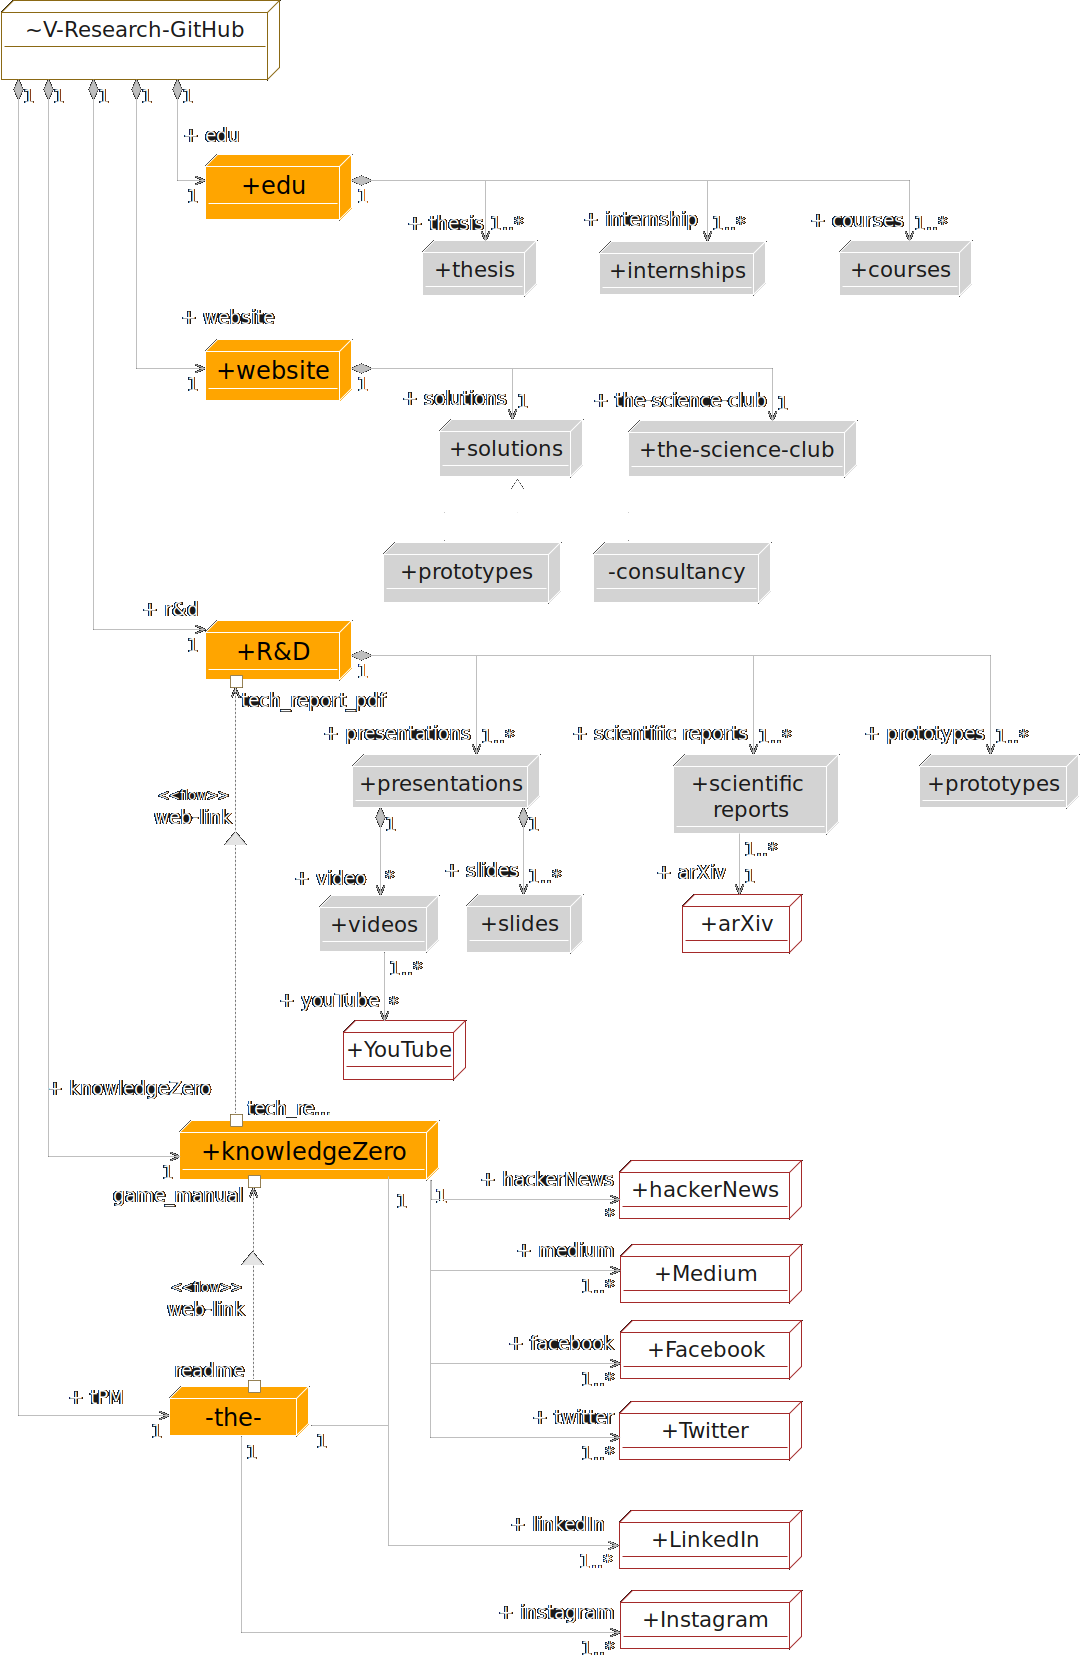
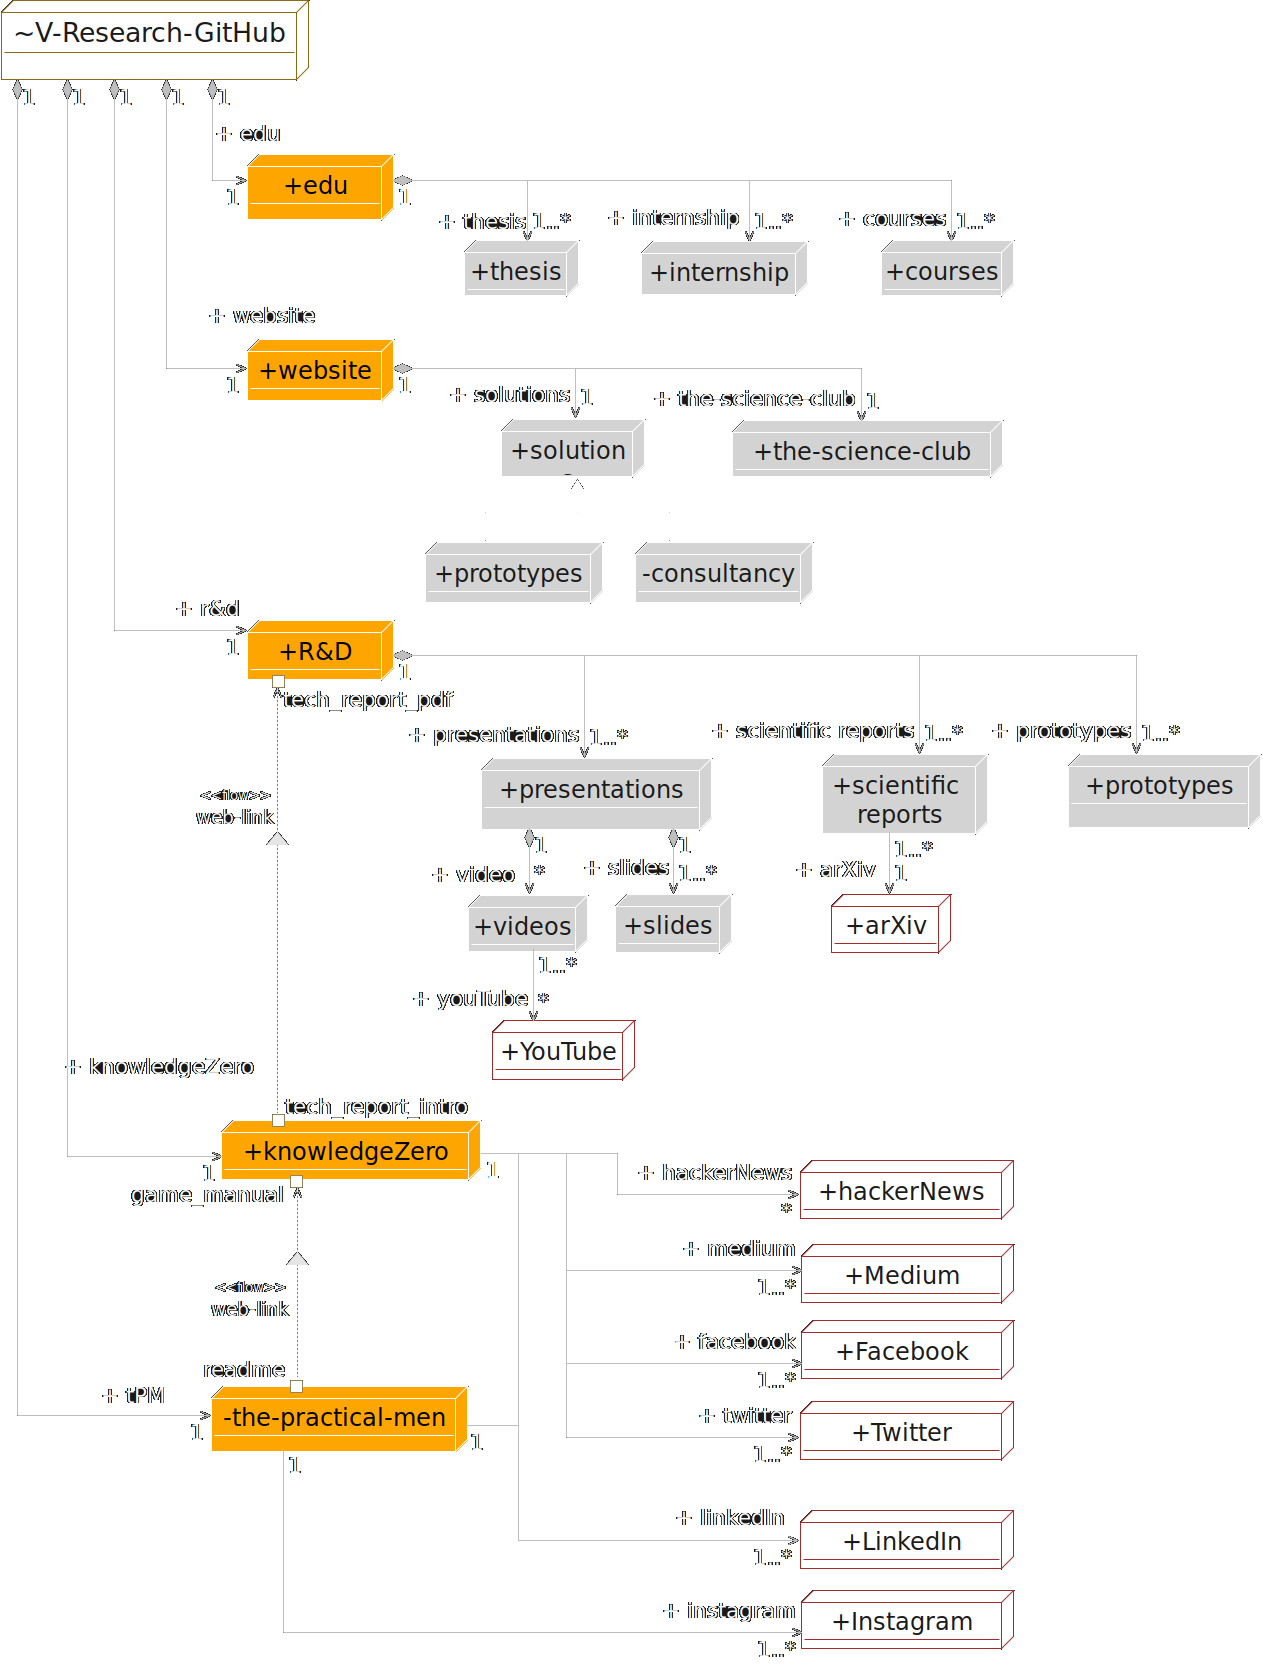
refine engineer page (and diagram)

diff --git a/engineer.md b/engineer.md
@@ -4,7 +4,7 @@ layout: default
 
 <div class="row">
     <p>
-        We engineer state-of-the-art security solutions thanks to our (combined) decades of cybersecurity research and commercial expertise in multiple engineering domains that ranges from cyber-physical systems (e.g. in the aerospace domain) to purely IT systems (e.g. networks and security protocols). We cover the engineering process from the very early stages with requirements definition/review and system design and verification, up to system implementation and testing. 
+        We engineer state-of-the-art security solutions thanks to our (combined) decades of cybersecurity research and commercial expertise in multiple engineering domains that ranges from cyber-physical systems (OT systems) to purely IT systems (e.g. networks and security protocols). We cover the engineering process from the very early stages with requirements definition/review and system design and verification, up to system implementation and testing. 
     </p>
     <p>
 	As engineers we don't like to use a natural language to describe v-research.
@@ -12,41 +12,42 @@ layout: default
     </p>
 </div>
 
-<img alt="A deployment diagram of the infrastructure of V-Research" src="images/infrastructure_deploymentDiagram.png" usemap="#dcb809e7-bbd3-4dd1-b082-8afaec084fd1" width="600.0" height="927.7">
+<img alt="A deployment diagram of the infrastructure of V-Research" src="images/infrastructure_deploymentDiagram.png" usemap="#dcb809e7-bbd3-4dd1-b082-8afaec084fd1" width="600.0" height="794.7743467933492">
 
 <map name="dcb809e7-bbd3-4dd1-b082-8afaec084fd1">
-<area alt="V-Research-GitHub" coords="0,0,156,45" href="https://github.com/v-research"  name="dcb809e7-bbd3-4dd1-b082-8afaec084fd1" shape="rect">
-<area alt="Medium" coords="344,691,446,724" href="https://knowledgezero.medium.com/" name="dcb809e7-bbd3-4dd1-b082-8afaec084fd1" shape="rect">
-<area alt="Facebook" coords="344,733,446,766" href="https://www.facebook.com/vresearch.it" name="dcb809e7-bbd3-4dd1-b082-8afaec084fd1" shape="rect">
-<area alt="Twitter" coords="343,778,446,811" href="https://twitter.com/marcorocchetto" name="dcb809e7-bbd3-4dd1-b082-8afaec084fd1" shape="rect">
-<area alt="Instagram" coords="344,883,446,916" href="https://www.instagram.com/vresearch_it/" name="dcb809e7-bbd3-4dd1-b082-8afaec084fd1" shape="rect">
-<area alt="tech_report_pdf " coords="133,381,217,397" name="dcb809e7-bbd3-4dd1-b082-8afaec084fd1" shape="rect">
-<area alt="tech_report_pdf " coords="127,375,135,382" name="dcb809e7-bbd3-4dd1-b082-8afaec084fd1" shape="rect">
-<area alt="R&amp;D" coords="113,344,196,378" href="https://github.com/v-research/cybersecurity" name="dcb809e7-bbd3-4dd1-b082-8afaec084fd1" shape="rect">
-<area alt="tech_report_intro" coords="135,610,186,621" name="dcb809e7-bbd3-4dd1-b082-8afaec084fd1" shape="rect">
-<area alt="tech_report_intro" coords="127,618,135,626" name="dcb809e7-bbd3-4dd1-b082-8afaec084fd1" shape="rect">
-<area alt="game_manual" coords="62,656,135,672" name="dcb809e7-bbd3-4dd1-b082-8afaec084fd1" shape="rect">
-<area alt="game_manual" coords="137,652,145,660" name="dcb809e7-bbd3-4dd1-b082-8afaec084fd1" shape="rect">
-<area alt="knowledgeZero" coords="99,622,244,656" href="https://www.knowledgezero.com/" name="dcb809e7-bbd3-4dd1-b082-8afaec084fd1" shape="rect">
-<area alt="readme" coords="96,753,135,769" name="dcb809e7-bbd3-4dd1-b082-8afaec084fd1" shape="rect">
-<area alt="readme" coords="137,766,145,773" name="dcb809e7-bbd3-4dd1-b082-8afaec084fd1" shape="rect">
-<area alt="the-practical-men" coords="93,770,172,798" name="dcb809e7-bbd3-4dd1-b082-8afaec084fd1" shape="rect">
-<area alt="website" coords="113,188,196,223" name="dcb809e7-bbd3-4dd1-b082-8afaec084fd1" shape="rect">
-<area alt="LinkedIn" coords="343,838,446,872" href="https://www.linkedin.com/company/v-researchit/" name="dcb809e7-bbd3-4dd1-b082-8afaec084fd1" shape="rect">
-<area alt="hackerNews" coords="343,644,446,677" href="https://news.ycombinator.com/" name="dcb809e7-bbd3-4dd1-b082-8afaec084fd1" shape="rect">
-<area alt="arXiv" coords="378,496,446,530" href="https://arxiv.org/" name="dcb809e7-bbd3-4dd1-b082-8afaec084fd1" shape="rect">
-<area alt="edu" coords="113,85,196,122" href="https://edu.v-research.it" name="dcb809e7-bbd3-4dd1-b082-8afaec084fd1" shape="rect">
-<area alt="prototypes" coords="510,418,600,449" href="https://github.com/v-research/cybersecurity/tree/master/prototypes" name="dcb809e7-bbd3-4dd1-b082-8afaec084fd1" shape="rect">
-<area alt="scientific reports" coords="373,418,466,463" name="dcb809e7-bbd3-4dd1-b082-8afaec084fd1" shape="rect">
-<area alt="presentations" coords="195,418,300,449" href="https://github.com/v-research/cybersecurity/tree/master/presentations" name="dcb809e7-bbd3-4dd1-b082-8afaec084fd1" shape="rect">
-<area alt="slides" coords="258,496,324,530" name="dcb809e7-bbd3-4dd1-b082-8afaec084fd1" shape="rect">
-<area alt="videos" coords="177,497,244,529" name="dcb809e7-bbd3-4dd1-b082-8afaec084fd1" shape="rect">
-<area alt="YouTube" coords="190,566,259,600" name="dcb809e7-bbd3-4dd1-b082-8afaec084fd1" shape="rect">
-<area alt="solutions" coords="243,232,324,265" href="https://v-research.it/solutions.html" name="dcb809e7-bbd3-4dd1-b082-8afaec084fd1" shape="rect">
-<area alt="consultancy" coords="329,301,428,335" name="dcb809e7-bbd3-4dd1-b082-8afaec084fd1" shape="rect">
-<area alt="prototypes" coords="212,301,312,335" name="dcb809e7-bbd3-4dd1-b082-8afaec084fd1" shape="rect">
-<area alt="the-science-club" coords="348,233,476,265" href="https://v-research.it/team.html" name="dcb809e7-bbd3-4dd1-b082-8afaec084fd1" shape="rect">
-<area alt="courses" coords="466,133,540,165" name="dcb809e7-bbd3-4dd1-b082-8afaec084fd1" shape="rect">
-<area alt="thesis" coords="234,133,298,165" name="dcb809e7-bbd3-4dd1-b082-8afaec084fd1" shape="rect">
-<area alt="internships" coords="332,133,426,164" name="dcb809e7-bbd3-4dd1-b082-8afaec084fd1" shape="rect">
+<area alt="V-Research-GitHub" coords="0,0,147,38" href="https://github.com/v-research" name="dcb809e7-bbd3-4dd1-b082-8afaec084fd1" shape="rect">
+<area alt="Medium" coords="380,590,482,619" href="https://knowledgezero.medium.com/" name="dcb809e7-bbd3-4dd1-b082-8afaec084fd1" shape="rect">
+<area alt="Facebook" coords="380,627,482,655" href="https://www.facebook.com/vresearch.it"  name="dcb809e7-bbd3-4dd1-b082-8afaec084fd1" shape="rect">
+<area alt="Twitter" coords="380,665,482,694" href="https://twitter.com/marcorocchetto" name="dcb809e7-bbd3-4dd1-b082-8afaec084fd1" shape="rect">
+<area alt="Instagram" coords="380,755,482,783" href="https://www.instagram.com/vresearch_it/" name="dcb809e7-bbd3-4dd1-b082-8afaec084fd1" shape="rect">
+<area alt="tech_report_pdf " coords="134,325,218,340" name="dcb809e7-bbd3-4dd1-b082-8afaec084fd1" shape="rect">
+<area alt="tech_report_pdf " coords="129,320,135,326" name="dcb809e7-bbd3-4dd1-b082-8afaec084fd1" shape="rect">
+<area alt="R&amp;D" coords="117,294,187,323" href="https://github.com/v-research/cybersecurity" name="dcb809e7-bbd3-4dd1-b082-8afaec084fd1" shape="rect">
+<area alt="tech_report_intro" coords="135,518,222,533" name="dcb809e7-bbd3-4dd1-b082-8afaec084fd1" shape="rect">
+<area alt="tech_report_intro" coords="129,529,135,535" name="dcb809e7-bbd3-4dd1-b082-8afaec084fd1" shape="rect">
+<area alt="game_manual" coords="62,560,134,575" name="dcb809e7-bbd3-4dd1-b082-8afaec084fd1" shape="rect">
+<area alt="game_manual" coords="137,558,143,564" name="dcb809e7-bbd3-4dd1-b082-8afaec084fd1" shape="rect">
+<area alt="knowledgeZero" coords="104,532,228,561" href="https://www.knowledgezero.com/" name="dcb809e7-bbd3-4dd1-b082-8afaec084fd1" shape="rect">
+<area alt="readme" coords="96,643,135,658" name="dcb809e7-bbd3-4dd1-b082-8afaec084fd1" shape="rect">
+<area alt="readme" coords="137,655,143,661" name="dcb809e7-bbd3-4dd1-b082-8afaec084fd1" shape="rect">
+<area alt="the-practical-men" coords="100,658,222,690" href="https://github.com/v-research/the-practical-men" name="dcb809e7-bbd3-4dd1-b082-8afaec084fd1" shape="rect">
+<area alt="website" coords="117,161,187,190" href="https://github.com/v-research/website" name="dcb809e7-bbd3-4dd1-b082-8afaec084fd1" shape="rect">
+<area alt="LinkedIn" coords="380,717,482,745" href="https://www.linkedin.com/company/v-researchit/" name="dcb809e7-bbd3-4dd1-b082-8afaec084fd1" shape="rect">
+<area alt="hackerNews" coords="380,551,482,579" href="https://news.ycombinator.com/" name="dcb809e7-bbd3-4dd1-b082-8afaec084fd1" shape="rect">
+<area alt="arXiv" coords="394,424,452,453" href="https://arxiv.org/" name="dcb809e7-bbd3-4dd1-b082-8afaec084fd1" shape="rect">
+<area alt="edu" coords="117,73,187,104" href="https://edu.v-research.it" name="dcb809e7-bbd3-4dd1-b082-8afaec084fd1" shape="rect">
+<area alt="prototypes" coords="507,358,599,393" href="https://github.com/v-research/cybersecurity/tree/master/prototypes" name="dcb809e7-bbd3-4dd1-b082-8afaec084fd1" shape="rect">
+<area alt="scientific reports" coords="390,358,469,396" href="https://github.com/v-research/cybersecurity/tree/master/reports" name="dcb809e7-bbd3-4dd1-b082-8afaec084fd1" shape="rect">
+<area alt="presentations" coords="228,360,338,394" href="https://github.com/v-research/cybersecurity/tree/master/presentations" name="dcb809e7-bbd3-4dd1-b082-8afaec084fd1" shape="rect">
+<area alt="slides" coords="292,424,348,453" name="dcb809e7-bbd3-4dd1-b082-8afaec084fd1" shape="rect">
+<area alt="videos" coords="222,425,279,452" name="dcb809e7-bbd3-4dd1-b082-8afaec084fd1" shape="rect">
+<area alt="YouTube" coords="233,484,302,513" name="dcb809e7-bbd3-4dd1-b082-8afaec084fd1" shape="rect">
+<area alt="solutions" coords="238,199,306,227" href="https://v-research.it/solutions.html" name="dcb809e7-bbd3-4dd1-b082-8afaec084fd1" shape="rect">
+<area alt="consultancy" coords="301,257,386,286" href="https://v-research.it/solutions.html" name="dcb809e7-bbd3-4dd1-b082-8afaec084fd1" shape="rect">
+<area alt="prototypes" coords="201,257,286,286" href="https://github.com/v-research/cybersecurity/tree/master/prototypes" name="dcb809e7-bbd3-4dd1-b082-8afaec084fd1" shape="rect">
+<area alt="the-science-club" coords="347,199,476,227" href="https://v-research.it/team.html" name="dcb809e7-bbd3-4dd1-b082-8afaec084fd1" shape="rect">
+<area alt="courses" coords="418,114,482,141" href="https://edu.v-research.it" name="dcb809e7-bbd3-4dd1-b082-8afaec084fd1" shape="rect">
+<area alt="thesis" coords="220,114,275,141" href="https://edu.v-research.it" name="dcb809e7-bbd3-4dd1-b082-8afaec084fd1" shape="rect">
+<area alt="internships" coords="304,114,384,140" href="https://edu.v-research.it" name="dcb809e7-bbd3-4dd1-b082-8afaec084fd1" shape="rect">
 </map>
+
